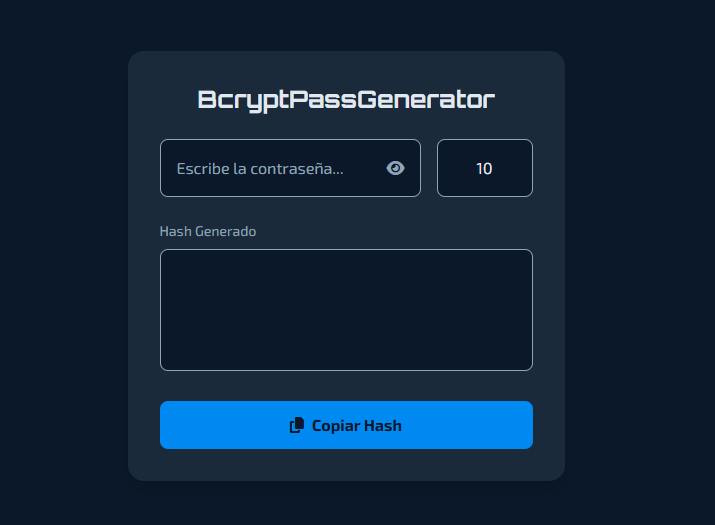
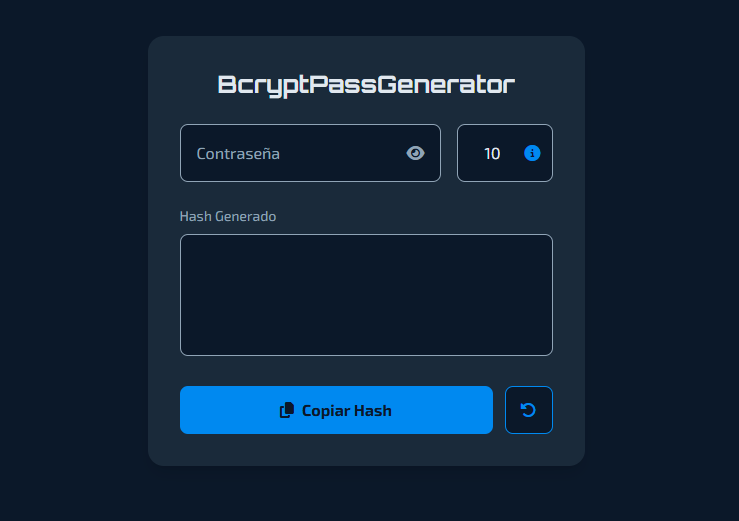
Se implemento boton para limpiar formulario

diff --git a/index.html b/index.html
@@ -59,7 +59,9 @@
               placeholder="Rounds"
               class="w-full p-4 pr-10 rounded-lg bg-[var(--color-fondo)] border border-[var(--color-texto-secundario)] text-[var(--color-texto-principal)] placeholder-[var(--color-texto-secundario)] focus:outline-none focus:ring-2 focus:ring-[var(--color-primario)] text-center no-spinner" />
 
-            <span class="absolute right-3 top-1/2 -translate-y-1/2 text-[var(--color-primario)] cursor-pointer" title="Número de rondas bcrypt. Mientras mas alto, mas seguro, pero más lento (default 10)">
+            <span
+              class="absolute right-3 top-1/2 -translate-y-1/2 text-[var(--color-primario)] cursor-pointer"
+              title="Número de rondas bcrypt. Mientras mas alto, mas seguro, pero más lento (default 10)">
               <i class="fa-solid fa-circle-info"></i>
             </span>
           </div>
@@ -75,13 +77,24 @@
             class="w-full p-3 rounded-lg bg-[var(--color-fondo)] border border-[var(--color-texto-secundario)] text-[var(--color-texto-principal)] placeholder-[var(--color-texto-secundario)] resize-none focus:outline-none focus:ring-2 focus:ring-[var(--color-primario)]"></textarea>
         </div>
 
-        <!-- Botón copiar -->
-        <button
-          id="copyHash"
-          class="bg-[var(--color-primario)] text-[var(--color-fondo)] font-bold py-3 rounded-lg hover:brightness-110 active:scale-95 transition-all flex items-center justify-center gap-2">
-          <i class="fa-solid fa-copy"></i>
-          Copiar Hash
-        </button>
+        <!-- Botones -->
+        <div class="flex gap-3">
+          <!-- Botón copiar -->
+          <button
+            id="copyHash"
+            class="flex-1 bg-[var(--color-primario)] text-[var(--color-fondo)] font-bold py-3 rounded-lg hover:brightness-110 active:scale-95 transition-all flex items-center justify-center gap-2">
+            <i class="fa-solid fa-copy"></i>
+            Copiar Hash
+          </button>
+
+          <!-- Botón reset -->
+          <button
+            id="resetForm"
+            class="w-12 bg-[var(--color-fondo)] border border-[var(--color-primario)] text-[var(--color-primario)] rounded-lg hover:bg-[var(--color-primario)] hover:text-[var(--color-fondo)] transition-all flex items-center justify-center"
+            title="Resetear formulario">
+            <i class="fa-solid fa-rotate-left"></i>
+          </button>
+        </div>
 
         <!-- Toast de copiado -->
         <div id="toastCopied" class="toast-success hidden absolute top-6 right-6 z-50">¡Copiado!</div>

diff --git a/js/main.js b/js/main.js
@@ -6,6 +6,7 @@ document.addEventListener("DOMContentLoaded", () => {
   const togglePassword = document.getElementById("togglePassword");
   const copyHash = document.getElementById("copyHash");
   const toastCopied = document.getElementById("toastCopied");
+  const resetForm = document.getElementById("resetForm");
 
   // Mostrar/Ocultar contraseña
   togglePassword.addEventListener("click", () => {
@@ -83,4 +84,11 @@ document.addEventListener("DOMContentLoaded", () => {
       toastCopied.classList.add("hidden");
     }, 2000);
   }
+
+  // Resetear el formulario
+  resetForm.addEventListener("click", () => {
+    passwordInput.value = "";
+    saltRoundsInput.value = 10;
+    hashOutput.value = "";
+  });
 });
